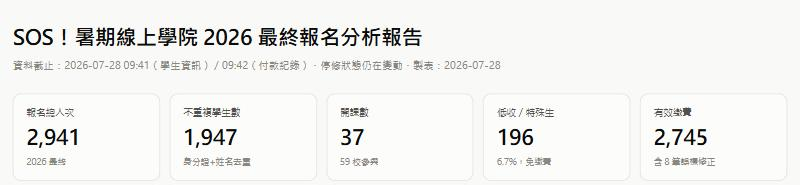
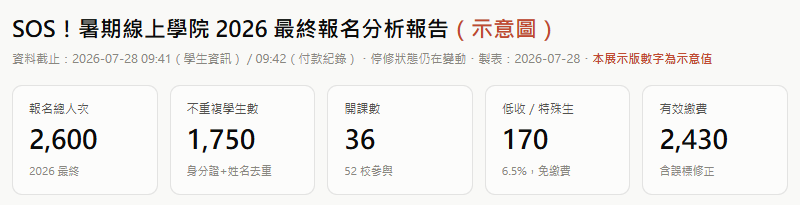
資安稽核修正②：SOS 報名分析四張圖改示意值重出，圖說標示意值
- assets/analysis-kpi.png、analysis-trend.png、analysis-class.png、analysis-supply.png：版面照原報告 CSS 重畫，數字全部改為彼此一致的示意值（報名 2,600、36 門、52 校等），折線圖重算座標
- index.html：四張圖說加註「示意值」

diff --git a/index.html b/index.html
@@ -983,7 +983,7 @@ const PROJECTS = [
   desc:"報名季結束，主管要的從來不是下載檔。我產出三件套：乾淨資料表（Excel）、互動視覺化報告（HTML）、歷年比較資料庫。計算方法寫成「方法說明」分頁，數字才經得起問；每張圖旁邊附「重點觀察」，報告自己會簡報。格式分工也是學來的細節：Excel 只放資料，圖表全放 HTML，因為報告最怕的不是醜，是壞。",
   hi:["三份檔案數字完全一致，收入口徑用詞精確、不含糊","用詞倫理：不對合作教師的課程做熱門冷門的排行式呈現","歷年資料庫涵蓋 2020 到 2026，明年比較零重工"],
   tech:["資料清理與對帳","Excel 資料建模","HTML/JS 圖表","方法論文件化"],
-  shots:[{s:"assets/analysis-kpi.png",c:"報告頭：資料截止時間與每個數字的口徑小字都寫清楚——數字要經得起問（含金額的區塊不在此展示）"},{s:"assets/analysis-trend.png",c:"歷年報名人次（2020–2026）：只比人次、不混金額——學分費有調漲的年度不可跨年直接換算，口徑紀律的實例"},{s:"assets/analysis-class.png",c:"班級規模分佈：37 門課依報名人數分級，給成班決策一眼可讀的依據"},{s:"assets/analysis-supply.png",c:"課程供需對比：自創「選讀指數」（人次占比 ÷ 門數占比）標紅藍示警，給明年開課規劃一把尺——分析不只是畫圖，是給決策工具"}]},
+  shots:[{s:"assets/analysis-kpi.png",c:"報告頭：資料截止時間與每個數字的口徑小字都寫清楚——數字要經得起問（含金額的區塊不在此展示；展示版數字為示意值）"},{s:"assets/analysis-trend.png",c:"歷年報名人次（2020–2026）：只比人次、不混金額——學分費有調漲的年度不可跨年直接換算，口徑紀律的實例（示意值）"},{s:"assets/analysis-class.png",c:"班級規模分佈：各門課依報名人數分級，給成班決策一眼可讀的依據（示意值）"},{s:"assets/analysis-supply.png",c:"課程供需對比：自創「選讀指數」（人次占比 ÷ 門數占比）標紅藍示警，給明年開課規劃一把尺——分析不只是畫圖，是給決策工具（示意值）"}]},
 
  {id:"handover", cat:["doc","ai"], svg:"handover",
   title:"📚 年度交接系統（一份原稿、三種版本）", status:"live", statusTxt:"✅ 持續維護中",
